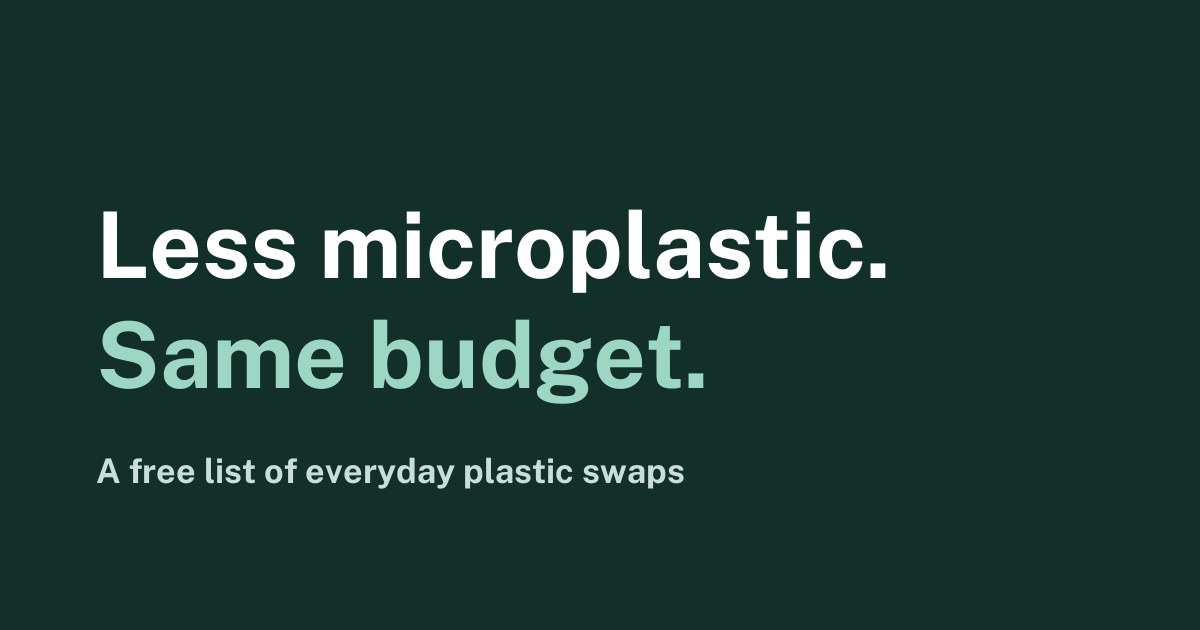
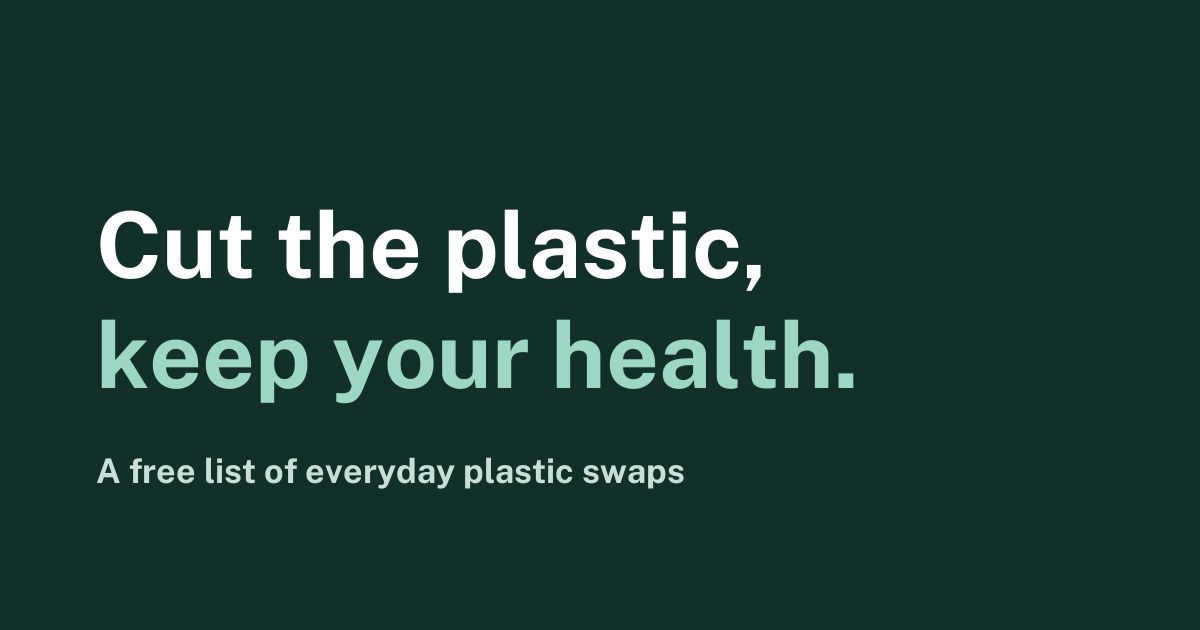
Hero tagline: Cut the plastic, keep your health

Changed region(s): [[0.0617, 0.4825, 0.7092, 0.6635], [0.0617, 0.3317, 0.74, 0.4825], [0.0617, 0.3317, 0.1233, 0.3619]]

diff --git a/index.html b/index.html
@@ -3,28 +3,28 @@
 <head>
 <meta charset="UTF-8">
 <meta name="viewport" content="width=device-width, initial-scale=1.0">
-<title>Less Microplastic, Same Budget: Everyday Plastic Swaps | Plastic Swap</title>
+<title>Cut the Plastic, Keep Your Health: Everyday Plastic Swaps | Plastic Swap</title>
 <meta name="description" content="A free list of everyday plastic swaps backed by Consumer Reports, pediatricians and peer-reviewed research, from cutting boards and food storage to clothes and underwear.">
 <meta name="robots" content="noindex,nofollow">
 <link rel="canonical" href="https://odyssey-jotun.github.io/plastic-swap/">
 <meta name="author" content="John Griffin">
 <meta name="theme-color" content="#12302A">
 <meta property="og:site_name" content="Plastic Swap">
-<meta property="og:title" content="Less Microplastic, Same Budget: Everyday Plastic Swaps | Plastic Swap">
+<meta property="og:title" content="Cut the Plastic, Keep Your Health: Everyday Plastic Swaps | Plastic Swap">
 <meta property="og:description" content="A free list of everyday plastic swaps backed by Consumer Reports, pediatricians and peer-reviewed research, from cutting boards and food storage to clothes and underwear.">
 <meta property="og:type" content="website">
 <meta property="og:url" content="https://odyssey-jotun.github.io/plastic-swap/">
 <meta property="og:image" content="https://odyssey-jotun.github.io/plastic-swap/images/og.jpg">
 <meta property="og:image:width" content="1200">
 <meta property="og:image:height" content="630">
-<meta property="og:image:alt" content="Less microplastic. Same budget. A free list of everyday plastic swaps.">
+<meta property="og:image:alt" content="Cut the plastic, keep your health. A free list of everyday plastic swaps.">
 <meta name="twitter:card" content="summary_large_image">
 <link rel="icon" href="favicon.svg" type="image/svg+xml">
 <link rel="preload" as="image" type="image/webp" href="images/banner-m-900.webp" imagesrcset="images/banner-m-600.webp 600w, images/banner-m-900.webp 900w" imagesizes="100vw" media="(max-width: 860px)" fetchpriority="high">
 <link rel="preload" as="image" type="image/webp" href="images/banner-1300.webp" imagesrcset="images/banner-900.webp 900w, images/banner-1300.webp 1300w, images/banner-1800.webp 1800w" imagesizes="58vw" media="(min-width: 861px)" fetchpriority="high">
 <link rel="preload" href="fonts/public-sans.woff2" as="font" type="font/woff2" crossorigin>
 <style>@font-face{font-family:'Public Sans';font-style:normal;font-weight:400 800;font-display:swap;src:url(fonts/public-sans.woff2) format('woff2')}:root{--bg:#FFFFFF;--bg-alt:#EEF5F2;--card:#FFFFFF;--ink:#0F1D1A;--ink-soft:#43524E;--primary:#1C4C42;--primary-dk:#12302A;--blue:#2A62A0;--mint:#9ED6C4;--mint-lt:#DCEFE8;--red:#B0392B;--on-dark:#EEF5F2;--on-dark-soft:#B8CEC7;--line:rgba(15,29,26,0.12);--radius:18px;--radius-lg:28px;--wrap:1080px;--flow-tight:0.32em;--flow-block:44px;--flow-section:80px}*{box-sizing:border-box}html{scroll-behavior:smooth;scroll-padding-top:84px}@media (prefers-reduced-motion:reduce){html{scroll-behavior:auto}*{animation-duration:0.001ms !important;transition-duration:0.001ms !important}}body{margin:0;background:var(--bg);color:var(--ink);font-family:'Public Sans',ui-sans-serif,system-ui,-apple-system,'Segoe UI',sans-serif;font-size:18px;line-height:1.6;-webkit-font-smoothing:antialiased}h1,h2,h3{font-weight:800;line-height:1.1;margin:0 0 var(--flow-tight);color:var(--ink);letter-spacing:-0.02em;text-wrap:balance}p{margin:0 0 1em}p:last-child{margin-bottom:0}a{color:inherit}img{max-width:100%;height:auto}.wrap{max-width:var(--wrap);margin:0 auto;padding:0 28px}.skip{position:absolute;left:-9999px;top:10px;background:var(--card);color:var(--ink);padding:12px 18px;border-radius:10px;z-index:100;text-decoration:none;font-weight:700;border:2px solid var(--primary)}.skip:focus{left:16px}a:focus-visible{outline:3px solid var(--blue);outline-offset:3px;border-radius:4px}nav.site{position:sticky;top:0;z-index:20;background:rgba(255,255,255,0.95);backdrop-filter:blur(8px);border-bottom:1px solid var(--line)}nav.site .wrap{display:flex;align-items:center;justify-content:space-between;gap:4px 20px;padding-top:10px;padding-bottom:10px;flex-wrap:wrap}.wordmark{display:inline-flex;align-items:center;gap:10px;font-weight:800;font-size:1.24rem;letter-spacing:-0.02em;color:var(--ink);text-decoration:none;white-space:nowrap;min-height:44px}.wordmark .mark{width:30px;height:30px;flex:none}.wordmark .last{color:var(--primary)}nav.site ul{list-style:none;display:flex;align-items:center;gap:4px;margin:0;padding:0;font-size:0.98rem;font-weight:600}nav.site ul a{text-decoration:none;color:var(--ink-soft);display:inline-flex;align-items:center;min-height:44px;padding:0 10px;white-space:nowrap;transition:color 0.15s ease}nav.site ul a:hover{color:var(--blue)}nav.site ul a[aria-current="page"]{color:var(--ink);box-shadow:inset 0 -3px 0 var(--primary)}.btn{display:inline-flex;align-items:center;justify-content:center;text-align:center;min-height:52px;padding:12px 28px;background:var(--primary);color:#FFFFFF;text-decoration:none;font-weight:700;font-size:1.04rem;border-radius:10px;border:2px solid var(--primary);transition:background 0.18s ease,color 0.18s ease,border-color 0.18s ease}.btn:hover{background:var(--blue);border-color:var(--blue)}.btn.light{background:#FFFFFF;border-color:#FFFFFF;color:var(--primary-dk)}.btn.light:hover{background:var(--mint);border-color:var(--mint)}.btn-row{display:flex;gap:14px;flex-wrap:wrap;align-items:center;justify-content:center;margin-top:30px}section{padding:var(--flow-section) 0}.band{background:var(--bg-alt)}.section-head{max-width:720px;margin-bottom:34px}.section-head.center{text-align:center;margin-left:auto;margin-right:auto}h2{font-size:clamp(1.75rem,3.2vw,2.4rem)}.section-head p{color:var(--ink-soft);font-size:1.08rem}.banner{position:relative;background:var(--primary-dk);color:var(--on-dark);overflow:hidden;min-height:min(680px,78vh);display:flex;align-items:center}.banner picture,.banner img{position:absolute;inset:0;width:100%;height:100%}.banner img{object-fit:cover;object-position:70% 40%}.banner::before{content:"";position:absolute;inset:0;z-index:1;background:linear-gradient(90deg,rgba(18,48,42,0.94) 0%,rgba(18,48,42,0.86) 30%,rgba(18,48,42,0.35) 52%,rgba(18,48,42,0) 66%)}.banner .wrap{position:relative;z-index:2;width:100%;padding-top:56px;padding-bottom:56px}.banner-text{max-width:600px;text-align:center}.banner h1{color:#FFFFFF;font-size:clamp(2.4rem,4.6vw,3.8rem)}.banner h1 span{display:block;color:var(--mint)}.portrait{margin:0;aspect-ratio:4/5;border-radius:var(--radius-lg);overflow:hidden;width:100%;max-width:440px;justify-self:center;box-shadow:0 30px 60px -24px rgba(18,48,42,0.55)}.portrait img{display:block;width:100%;height:100%;object-fit:cover}@media (prefers-reduced-motion:no-preference){.banner-text{animation:rise 0.7s cubic-bezier(.2,.7,.2,1) 0.1s both}}@keyframes rise{from{opacity:0;transform:translateY(18px)}to{opacity:1;transform:none}}@media (max-width:860px){.banner{display:block;min-height:0}.banner picture,.banner img{position:static;display:block;height:auto;aspect-ratio:4/3}.banner::before{display:none}.banner .wrap{padding-top:30px;padding-bottom:44px}.banner-text{max-width:none}}.page-hero{padding:60px 0 64px}.page-hero h1{font-size:clamp(2.1rem,4.4vw,3.1rem)}.page-hero .lede{font-size:1.14rem;color:var(--ink-soft);margin-top:8px;max-width:34em}.page-hero .btn-row{justify-content:flex-start}.split{display:grid;grid-template-columns:1.05fr 0.95fr;gap:56px;align-items:center}.split.flip{grid-template-columns:0.95fr 1.05fr}.split p{color:var(--ink-soft);font-size:1.06rem}.photo{margin:0;border-radius:var(--radius);overflow:hidden;aspect-ratio:4/3;background:var(--bg-alt);box-shadow:0 20px 40px -24px rgba(18,48,42,0.55)}.photo img{display:block;width:100%;height:100%;object-fit:cover}.cards{display:grid;grid-template-columns:repeat(3,1fr);gap:22px}.card{background:var(--card);border:1px solid var(--line);border-radius:var(--radius);padding:30px 26px 28px;text-align:center}.card h3{font-size:1.24rem}.card p{font-size:1rem;color:var(--ink-soft)}.icon{width:64px;height:64px;border-radius:18px;background:var(--mint-lt);color:var(--primary);display:flex;align-items:center;justify-content:center;margin:0 auto 18px}.icon svg{width:32px;height:32px}a.card{text-decoration:none;color:inherit;transition:border-color 0.15s ease}a.card:hover{border-color:var(--blue)}a.card:hover h3{color:var(--blue)}.card .to{font-size:0.95rem;font-weight:700;color:var(--primary);margin:0}.punch{font-weight:700;font-size:clamp(1.2rem,2.2vw,1.45rem);line-height:1.35;text-align:center;color:var(--primary);max-width:720px;margin:var(--flow-block) auto 0}.steps{list-style:none;margin:0;padding:0;display:grid;grid-template-columns:repeat(3,1fr);gap:22px;counter-reset:step}.steps li{background:var(--card);border:1px solid var(--line);border-radius:var(--radius);padding:28px 26px;counter-increment:step;text-align:center}.steps li:before{content:counter(step);display:flex;align-items:center;justify-content:center;width:46px;height:46px;border-radius:50%;background:var(--primary);color:#FFFFFF;font-weight:800;font-size:1.3rem;margin:0 auto 18px}.steps h3{font-size:1.24rem}.steps p{font-size:1rem;color:var(--ink-soft)}.after{background:var(--primary-dk);color:var(--on-dark)}.after h2,.after h3{color:#FFFFFF}.stakes{display:grid;grid-template-columns:1fr 1fr;gap:26px}.stake h3{font-size:1.3rem;margin-bottom:14px;text-align:center}.outcomes{list-style:none;margin:0;padding:0;display:grid;gap:12px}.outcomes li{display:grid;grid-template-columns:26px 1fr;gap:14px;align-items:start;background:rgba(255,255,255,0.06);border:1px solid rgba(238,245,242,0.16);border-radius:14px;padding:16px 18px;color:var(--on-dark);font-size:1.02rem}.outcomes svg{width:22px;height:22px;margin-top:2px;color:#F2A597}.stake.good .outcomes svg{color:var(--mint)}.stake.good .outcomes li{background:rgba(158,214,196,0.08);border-color:rgba(158,214,196,0.34)}.after .cite-line{color:var(--on-dark-soft);text-align:center}.closing{text-align:center}.closing .wrap{max-width:680px}.closing p{color:var(--ink-soft);font-size:1.08rem}.card .num{font-weight:800;font-size:clamp(2.3rem,4vw,2.9rem);line-height:1;letter-spacing:-0.03em;color:var(--primary);margin:0 0 10px}.card .of{font-size:0.9rem;font-weight:700;color:var(--ink-soft);margin:12px 0 0;border-top:1px solid var(--line);padding-top:12px}.card .more{margin-top:12px;font-weight:700;font-size:0.96rem}.card .more a{color:var(--blue);text-decoration-thickness:2px;text-underline-offset:3px}.cards.four{grid-template-columns:repeat(2,1fr);max-width:860px;margin:0 auto}.btn.ghost{background:transparent;color:var(--primary)}.btn.ghost:hover{background:var(--primary);color:#FFFFFF;border-color:var(--primary)}.cite-line.center{text-align:center}.hero-photo{margin:0;border-radius:var(--radius-lg);overflow:hidden;aspect-ratio:3/2;background:var(--bg-alt);box-shadow:0 24px 48px -26px rgba(18,48,42,0.6)}.hero-photo img{display:block;width:100%;height:100%;object-fit:cover}.prose{max-width:760px;margin:0 auto}.prose p{color:var(--ink-soft);font-size:1.06rem}.chart{background:var(--card);border:1px solid var(--line);border-radius:var(--radius);padding:28px 30px;margin:0}.chart h3{font-size:1.22rem}.chart .sub{color:var(--ink-soft);font-size:0.98rem;margin-bottom:20px}.bars{display:grid;gap:14px}.barline{display:grid;grid-template-columns:130px 1fr;gap:12px;align-items:center;font-size:0.94rem;font-weight:600;color:var(--ink-soft)}.track{height:40px;background:var(--bg-alt);border-radius:6px}.bar{display:flex;align-items:center;justify-content:flex-end;height:100%;padding-right:10px;border-radius:6px;color:#FFFFFF;font-weight:800;min-width:60px}.bar.hi{background:var(--red)}.bar.lo{background:var(--primary)}.lead{font-size:1.12rem;color:var(--ink-soft)}.points,.statlist,.steps-list{list-style:none;margin:26px 0 0;padding:0;display:grid;gap:22px}.points li{display:grid;grid-template-columns:56px 1fr;gap:18px;align-items:start}.points .icon{width:56px;height:56px;border-radius:16px;margin:0}.points .icon svg{width:28px;height:28px}.points h3,.statlist h3,.steps-list h3{font-size:1.18rem;margin-bottom:4px}.points p,.statlist p,.steps-list p{font-size:1rem;color:var(--ink-soft);margin:0}.statlist li{display:grid;grid-template-columns:120px 1fr;gap:18px;align-items:start;padding-bottom:20px;border-bottom:1px solid var(--line)}.statlist li:last-child{border-bottom:0;padding-bottom:0}.statlist .n{font-weight:800;font-size:2rem;line-height:1.05;letter-spacing:-0.03em;color:var(--primary);margin:0}.steps-list{counter-reset:step}.steps-list li{display:grid;grid-template-columns:46px 1fr;gap:18px;align-items:start;counter-increment:step}.steps-list li:before{content:counter(step);display:flex;align-items:center;justify-content:center;width:46px;height:46px;border-radius:50%;background:var(--primary);color:#FFFFFF;font-weight:800;font-size:1.2rem}.split .btn-row{justify-content:flex-start}.pcards{display:grid;grid-template-columns:repeat(3,1fr);gap:24px}.pcards.four{grid-template-columns:repeat(4,1fr)}.pcard{background:var(--card);border:1px solid var(--line);border-radius:var(--radius);overflow:hidden;text-decoration:none;color:inherit;display:flex;flex-direction:column}a.pcard{transition:border-color 0.15s ease,transform 0.2s ease}a.pcard:hover{border-color:var(--blue);transform:translateY(-3px)}a.pcard:hover h3{color:var(--blue)}.card-photo{margin:0;aspect-ratio:4/3;overflow:hidden;background:var(--bg-alt)}.card-photo img{display:block;width:100%;height:100%;object-fit:cover}.pcard-body{padding:20px 20px 22px;text-align:center}.pcard-body h3{font-size:1.2rem}.pcard-body p{font-size:0.98rem;color:var(--ink-soft)}.pcard-body .to{font-weight:700;color:var(--primary);margin:0}.pcard .num{font-weight:800;font-size:1.9rem;line-height:1;letter-spacing:-0.03em;color:var(--primary);margin:0 0 8px}.pcard .more{margin-top:10px;font-weight:700}.pcard .more a{color:var(--blue);text-underline-offset:3px}.stakes-split{display:grid;grid-template-columns:0.85fr 1.15fr;gap:36px;align-items:center}.stakes-split .stakes{grid-template-columns:1fr;gap:22px}.stakes-split .stake h3{text-align:left}.btn.ghost-light{background:transparent;color:#FFFFFF;border-color:#FFFFFF}.btn.ghost-light:hover{background:#FFFFFF;color:var(--primary-dk)}.closing-banner h2{color:#FFFFFF;font-size:clamp(2rem,3.8vw,3rem)}.closing-banner p{color:var(--on-dark);font-size:1.12rem}@media (max-width:1000px){.pcards.four{grid-template-columns:repeat(2,1fr)}}@media (max-width:860px){.pcards{grid-template-columns:repeat(2,1fr);gap:14px}.stakes-split{grid-template-columns:1fr}.statlist li{grid-template-columns:1fr;gap:6px}}@media (max-width:620px){.pcards,.pcards.four{grid-template-columns:1fr}}.room{scroll-margin-top:90px}.room + .room{border-top:1px solid var(--line)}.swaps{display:grid;grid-template-columns:repeat(auto-fit,minmax(260px,320px));justify-content:center;gap:22px}.swap{background:var(--card);border:1px solid var(--line);border-radius:var(--radius);overflow:hidden;scroll-margin-top:90px}.swap-body{padding:0 24px 24px}.swap .icon{margin-top:-32px;position:relative;box-shadow:0 0 0 5px var(--card)}.swap h3{font-size:1.3rem;text-align:center}.swap .to{text-align:center;font-weight:700;color:var(--primary);margin-bottom:14px}.swap-body>p{color:var(--ink-soft);font-size:1rem}.facts-list{list-style:none;margin:16px 0 0;padding:14px 0 0;border-top:1px solid var(--line);display:grid;gap:8px;font-size:0.96rem}.facts-list li{display:grid;grid-template-columns:20px 1fr;gap:10px;align-items:start;color:var(--ink-soft)}.facts-list svg{width:18px;height:18px;margin-top:3px;color:var(--primary)}.facts-list b{display:block;color:var(--ink);font-weight:700}.band .swap{background:#FFFFFF}.cite-line{font-size:0.9rem;color:var(--ink-soft);font-style:italic;margin-top:18px}.refs{padding:56px 0;border-top:1px solid var(--line)}.refs h2{font-size:1.4rem}.refs ol{max-width:860px;margin:0;padding-left:1.3rem;display:grid;gap:8px;font-size:0.95rem;color:var(--ink-soft)}footer{background:var(--primary-dk);color:var(--on-dark-soft);padding:34px 0;font-size:0.95rem}footer .wrap{display:flex;justify-content:space-between;align-items:center;flex-wrap:wrap;gap:10px 24px}footer p{margin:0;max-width:40em}footer ul{list-style:none;display:flex;flex-wrap:wrap;gap:0 18px;margin:0;padding:0;font-weight:600}footer ul a{display:inline-flex;align-items:center;min-height:44px;color:var(--on-dark);text-decoration:none}footer ul a:hover{color:var(--mint)}@media (max-width:860px){.split,.split.flip{grid-template-columns:1fr;gap:30px}.split>.portrait,.split>.photo{order:-1}.page-hero .portrait{max-width:340px}.cards,.cards.four,.steps,.stakes{grid-template-columns:1fr}.page-hero .hero-photo{order:-1;aspect-ratio:16/10}.cards.preview{grid-template-columns:1fr 1fr;gap:12px}.cards.preview .card{padding:20px 12px}.cards.preview .icon{width:52px;height:52px;margin-bottom:10px}.cards.preview h3{font-size:1.06rem}.cards.preview .to{font-size:0.86rem}}@media (max-width:620px){:root{--flow-section:56px;--flow-block:34px}body{font-size:17px}.wrap{padding:0 20px}.page-hero{padding:28px 0 44px}.btn-row .btn{width:100%}.barline{grid-template-columns:1fr;gap:4px}.chart{padding:22px 18px}.swaps{grid-template-columns:1fr}.wordmark{font-size:1.14rem}}.room-tag{display:none}@media print{@page{size:letter;margin:0.45in 0.55in}body{font-size:10.5pt}nav.site,footer,.skip,.page-hero .portrait,.page-hero .hero-photo,.card-photo,.btn-row,.closing,.room .section-head{display:none !important}main{display:grid;grid-template-columns:1fr 1fr;gap:10pt}.page-hero{grid-column:1 / -1;padding:0 0 2pt}.page-hero .wrap,.page-hero .split{display:block;padding:0}.page-hero h1{font-size:20pt}.page-hero .lede{font-size:10.5pt;margin:4pt 0 0;max-width:none}.room,.room .wrap,.swaps{display:contents}.swap-body{padding:0}.swap .icon{margin-top:0;box-shadow:none}.swap{padding:9pt 13pt 9pt;break-inside:avoid;border-color:#BFCFCA;border-radius:12px}.room-tag{display:block;text-align:center;font-size:8pt;font-weight:700;letter-spacing:0.02em;color:var(--ink-soft);margin:0 0 2pt}.swap .icon{width:30px;height:30px;border-radius:9px;margin-bottom:4pt}.swap .icon svg{width:19px;height:19px}.swap h3{font-size:12.5pt;margin-bottom:1pt}.swap .to{font-size:9.5pt;margin-bottom:5pt}.swap-body>p{font-size:9.2pt;line-height:1.4}.facts-list{font-size:8.8pt;line-height:1.35;margin-top:6pt;padding-top:6pt;gap:2pt}.facts-list li{grid-template-columns:12px 1fr;gap:6pt}.facts-list svg{width:11px;height:11px;margin-top:2px}.facts-list b{display:inline;margin-right:4pt}.refs{display:none !important}}.closing-banner::before{background:rgba(18,48,42,0.76)}.closing-banner .banner-text{margin:0 auto}@media (max-width:860px){.closing-banner .wrap{padding-top:30px}}.swap .source{display:grid;grid-template-columns:18px 1fr;gap:10px;align-items:start;margin:16px 0 0;padding-top:14px;border-top:1px solid var(--line);font-size:0.92rem;color:var(--ink-soft)}.swap .source svg{width:16px;height:16px;margin-top:3px;color:var(--primary)}.swap .more{margin:10px 0 0;font-weight:700;font-size:0.95rem}.swap .more a{color:var(--blue);text-underline-offset:3px}.byline{font-weight:700;color:var(--primary);margin-bottom:8px}.post{padding-top:24px}.prose h2{margin-top:var(--flow-block)}.prose h3{font-size:1.2rem;margin-top:28px;scroll-margin-top:90px}.table-wrap{overflow-x:auto;margin:28px 0 0;border:1px solid var(--line);border-radius:var(--radius)}.price-table{width:100%;border-collapse:collapse;font-size:0.96rem;min-width:560px}.price-table th,.price-table td{text-align:left;padding:12px 16px;border-bottom:1px solid var(--line);vertical-align:top}.price-table thead th{background:var(--bg-alt);font-weight:700;color:var(--ink)}.price-table tbody tr:last-child th,.price-table tbody tr:last-child td{border-bottom:0}.price-table tbody th a{color:var(--primary);text-underline-offset:3px}.price-table td{color:var(--ink-soft)}@media (max-width:620px){.pcards.preview{grid-template-columns:1fr 1fr;gap:12px}.pcards.preview .pcard-body{padding:12px 10px 14px}.pcards.preview h3{font-size:1rem}.pcards.preview .to{font-size:0.86rem}}@media print{.swap .more{display:none}.swap .source{font-size:8.5pt;margin-top:6pt;padding-top:6pt;grid-template-columns:11px 1fr;gap:6pt}.swap .source svg{width:11px;height:11px;margin-top:1px}}@media print{@page{margin:0.4in 0.5in}main{gap:8pt}.page-hero h1{font-size:18pt}.page-hero .lede{font-size:9.5pt}.swap{padding:7pt 11pt 7pt}.room-tag{font-size:7pt;margin:0 0 1pt}.swap .icon{width:24px;height:24px;border-radius:7px;margin-bottom:2pt}.swap .icon svg{width:15px;height:15px}.swap h3{font-size:11.5pt}.swap .to{font-size:9pt;margin-bottom:3pt}.swap-body>p{font-size:8.8pt;line-height:1.35}.swap .source{font-size:8pt;margin-top:4pt;padding-top:4pt}}@media (min-width:861px){.hero-split{display:grid;grid-template-columns:0.42fr 0.58fr;align-items:stretch;min-height:min(640px,76vh)}.hero-split::before{display:none}.hero-split picture{position:relative;grid-column:2;grid-row:1;inset:auto}.hero-split picture img{position:absolute;inset:0;width:100%;height:100%;object-fit:cover;object-position:78% 40%}.hero-split .wrap{grid-column:1;grid-row:1;display:flex;align-items:center;justify-content:center;padding:56px 28px;max-width:none;margin:0}.hero-split .banner-text{max-width:540px}.hero-split h1{font-size:clamp(2rem,3.3vw,3.1rem)}}.points + p{margin-top:28px}</style>
-<script type="application/ld+json">{"@context":"https://schema.org","@graph":[{"@type":"WebSite","@id":"https://odyssey-jotun.github.io/plastic-swap/#site","url":"https://odyssey-jotun.github.io/plastic-swap/","name":"Plastic Swap","description":"A free list of everyday plastic swaps that cut microplastic exposure at home, with what each one cost.","author":{"@id":"https://odyssey-jotun.github.io/plastic-swap/#john"},"inLanguage":"en-US"},{"@type":"Person","@id":"https://odyssey-jotun.github.io/plastic-swap/#john","name":"John Griffin","description":"High school junior in Little Rock who created Plastic Swap, a free list of everyday swaps that cut microplastic exposure at home."},{"@type":"WebPage","@id":"https://odyssey-jotun.github.io/plastic-swap/#page","url":"https://odyssey-jotun.github.io/plastic-swap/","name":"Less Microplastic, Same Budget: Everyday Plastic Swaps | Plastic Swap","description":"A free list of everyday plastic swaps backed by Consumer Reports, pediatricians and peer-reviewed research, from cutting boards and food storage to clothes and underwear.","isPartOf":{"@id":"https://odyssey-jotun.github.io/plastic-swap/#site"},"author":{"@id":"https://odyssey-jotun.github.io/plastic-swap/#john"},"inLanguage":"en-US","datePublished":"2026-11-02","dateModified":"2026-11-02","image":"https://odyssey-jotun.github.io/plastic-swap/images/og.jpg","about":"Reducing microplastic exposure at home"}]}</script>
+<script type="application/ld+json">{"@context":"https://schema.org","@graph":[{"@type":"WebSite","@id":"https://odyssey-jotun.github.io/plastic-swap/#site","url":"https://odyssey-jotun.github.io/plastic-swap/","name":"Plastic Swap","description":"A free list of everyday plastic swaps that cut microplastic exposure at home, with what each one cost.","author":{"@id":"https://odyssey-jotun.github.io/plastic-swap/#john"},"inLanguage":"en-US"},{"@type":"Person","@id":"https://odyssey-jotun.github.io/plastic-swap/#john","name":"John Griffin","description":"High school junior in Little Rock who created Plastic Swap, a free list of everyday swaps that cut microplastic exposure at home."},{"@type":"WebPage","@id":"https://odyssey-jotun.github.io/plastic-swap/#page","url":"https://odyssey-jotun.github.io/plastic-swap/","name":"Cut the Plastic, Keep Your Health: Everyday Plastic Swaps | Plastic Swap","description":"A free list of everyday plastic swaps backed by Consumer Reports, pediatricians and peer-reviewed research, from cutting boards and food storage to clothes and underwear.","isPartOf":{"@id":"https://odyssey-jotun.github.io/plastic-swap/#site"},"author":{"@id":"https://odyssey-jotun.github.io/plastic-swap/#john"},"inLanguage":"en-US","datePublished":"2026-11-02","dateModified":"2026-11-02","image":"https://odyssey-jotun.github.io/plastic-swap/images/og.jpg","about":"Reducing microplastic exposure at home"}]}</script>
 </head>
 <body>
 
@@ -50,7 +50,7 @@
   </picture>
   <div class="wrap">
     <div class="banner-text">
-      <h1>Less microplastic. <span>Same budget.</span></h1>
+      <h1>Cut the plastic, <span>keep your health.</span></h1>
       <div class="btn-row">
         <a href="swaps.html" class="btn light">Download the Free Swap List</a>
       </div>

diff --git a/swaps.html b/swaps.html
@@ -17,7 +17,7 @@
 <meta property="og:image" content="https://odyssey-jotun.github.io/plastic-swap/images/og.jpg">
 <meta property="og:image:width" content="1200">
 <meta property="og:image:height" content="630">
-<meta property="og:image:alt" content="Less microplastic. Same budget. A free list of everyday plastic swaps.">
+<meta property="og:image:alt" content="Cut the plastic, keep your health. A free list of everyday plastic swaps.">
 <meta name="twitter:card" content="summary_large_image">
 <link rel="icon" href="favicon.svg" type="image/svg+xml">
 <link rel="preload" as="image" type="image/webp" href="images/hero-couple-cooking-960.webp" imagesrcset="images/hero-couple-cooking-600.webp 600w, images/hero-couple-cooking-800.webp 800w, images/hero-couple-cooking-960.webp 960w, images/hero-couple-cooking-1200.webp 1200w" imagesizes="(max-width: 860px) calc(100vw - 40px), 500px" fetchpriority="high">

diff --git a/research.html b/research.html
@@ -17,7 +17,7 @@
 <meta property="og:image" content="https://odyssey-jotun.github.io/plastic-swap/images/og.jpg">
 <meta property="og:image:width" content="1200">
 <meta property="og:image:height" content="630">
-<meta property="og:image:alt" content="Less microplastic. Same budget. A free list of everyday plastic swaps.">
+<meta property="og:image:alt" content="Cut the plastic, keep your health. A free list of everyday plastic swaps.">
 <meta name="twitter:card" content="summary_large_image">
 <link rel="icon" href="favicon.svg" type="image/svg+xml">
 <link rel="preload" as="image" type="image/webp" href="images/hero-scientist-960.webp" imagesrcset="images/hero-scientist-600.webp 600w, images/hero-scientist-800.webp 800w, images/hero-scientist-960.webp 960w, images/hero-scientist-1200.webp 1200w" imagesizes="(max-width: 860px) calc(100vw - 40px), 500px" fetchpriority="high">

diff --git a/family-swaps.html b/family-swaps.html
@@ -17,7 +17,7 @@
 <meta property="og:image" content="https://odyssey-jotun.github.io/plastic-swap/images/og.jpg">
 <meta property="og:image:width" content="1200">
 <meta property="og:image:height" content="630">
-<meta property="og:image:alt" content="Less microplastic. Same budget. A free list of everyday plastic swaps.">
+<meta property="og:image:alt" content="Cut the plastic, keep your health. A free list of everyday plastic swaps.">
 <meta name="twitter:card" content="summary_large_image">
 <link rel="icon" href="favicon.svg" type="image/svg+xml">
 <link rel="preload" as="image" type="image/webp" href="images/blog-dishwasher-800.webp" imagesrcset="images/blog-dishwasher-480.webp 480w, images/blog-dishwasher-680.webp 680w, images/blog-dishwasher-800.webp 800w" imagesizes="(max-width: 860px) min(calc(100vw - 40px), 340px), 440px" fetchpriority="high">

diff --git a/build.py b/build.py
@@ -196,7 +196,7 @@ def head(title, desc, path="", schema=None, pre=""):
 <meta property="og:image" content="{SITE}images/og.jpg">
 <meta property="og:image:width" content="1200">
 <meta property="og:image:height" content="630">
-<meta property="og:image:alt" content="Less microplastic. Same budget. A free list of everyday plastic swaps.">
+<meta property="og:image:alt" content="Cut the plastic, keep your health. A free list of everyday plastic swaps.">
 <meta name="twitter:card" content="summary_large_image">
 <link rel="icon" href="favicon.svg" type="image/svg+xml">
 {pre}<link rel="preload" href="fonts/public-sans.woff2" as="font" type="font/woff2" crossorigin>
@@ -391,7 +391,7 @@ def closing_banner(heading, text, href, label, second=None):
 
 # ---------------------------------------------------------------- home
 def index():
-    t = f"Less Microplastic, Same Budget: Everyday Plastic Swaps | {SITE_NAME}"
+    t = f"Cut the Plastic, Keep Your Health: Everyday Plastic Swaps | {SITE_NAME}"
     d = ("A free list of everyday plastic swaps backed by Consumer Reports, pediatricians and peer-reviewed "
          "research, from cutting boards and food storage to clothes and underwear.")
     schema = [page_schema("WebPage", "", t, d, {"about": "Reducing microplastic exposure at home"})]
@@ -409,7 +409,7 @@ def index():
   </picture>
   <div class="wrap">
     <div class="banner-text">
-      <h1>Less microplastic. <span>Same budget.</span></h1>
+      <h1>Cut the plastic, <span>keep your health.</span></h1>
       <div class="btn-row">
         <a href="swaps.html" class="btn light">Download the Free Swap List</a>
       </div>

diff --git a/tools/photos.py b/tools/photos.py
@@ -112,8 +112,8 @@ card = Image.new("RGB", (1200, 630), (18, 48, 41))
 d = ImageDraw.Draw(card)
 font = ImageFont.truetype("tools/font-src/PublicSans-Bold.ttf", 92)
 small = ImageFont.truetype("tools/font-src/PublicSans-Bold.ttf", 34)
-d.text((96, 190), "Less microplastic.", font=font, fill=(255, 255, 255))
-d.text((96, 300), "Same budget.", font=font, fill=(158, 214, 196))
+d.text((96, 190), "Cut the plastic,", font=font, fill=(255, 255, 255))
+d.text((96, 300), "keep your health.", font=font, fill=(158, 214, 196))
 d.text((96, 450), "A free list of everyday plastic swaps", font=small, fill=(200, 222, 215))
 card.save("images/og.jpg", quality=88)
 print("wrote og.jpg")
